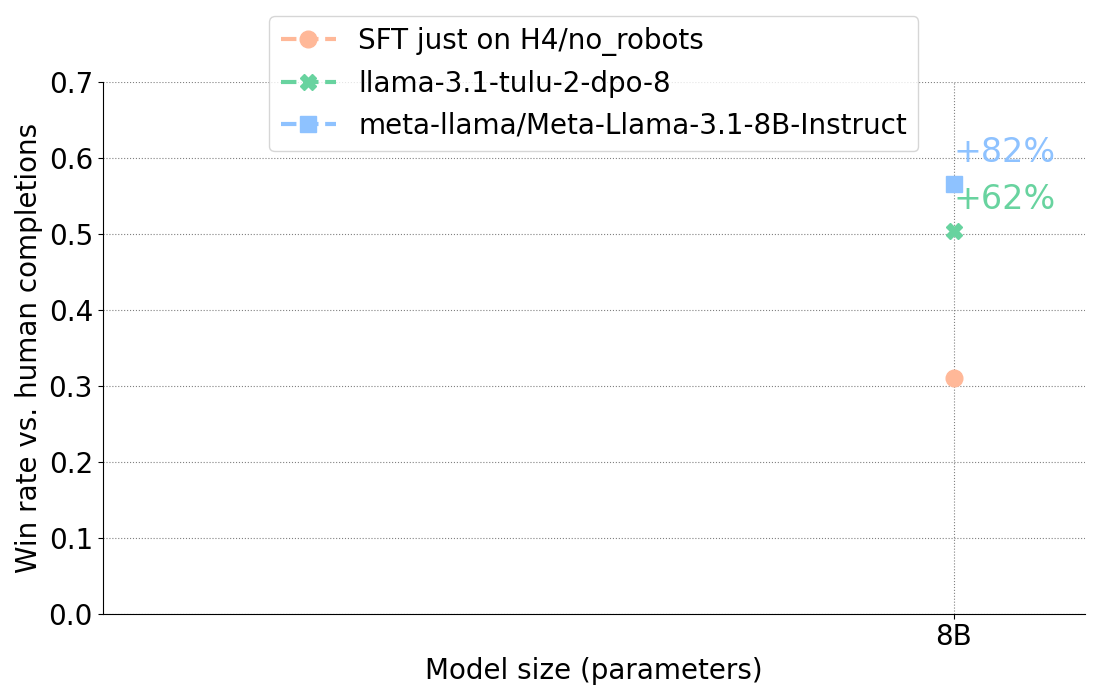
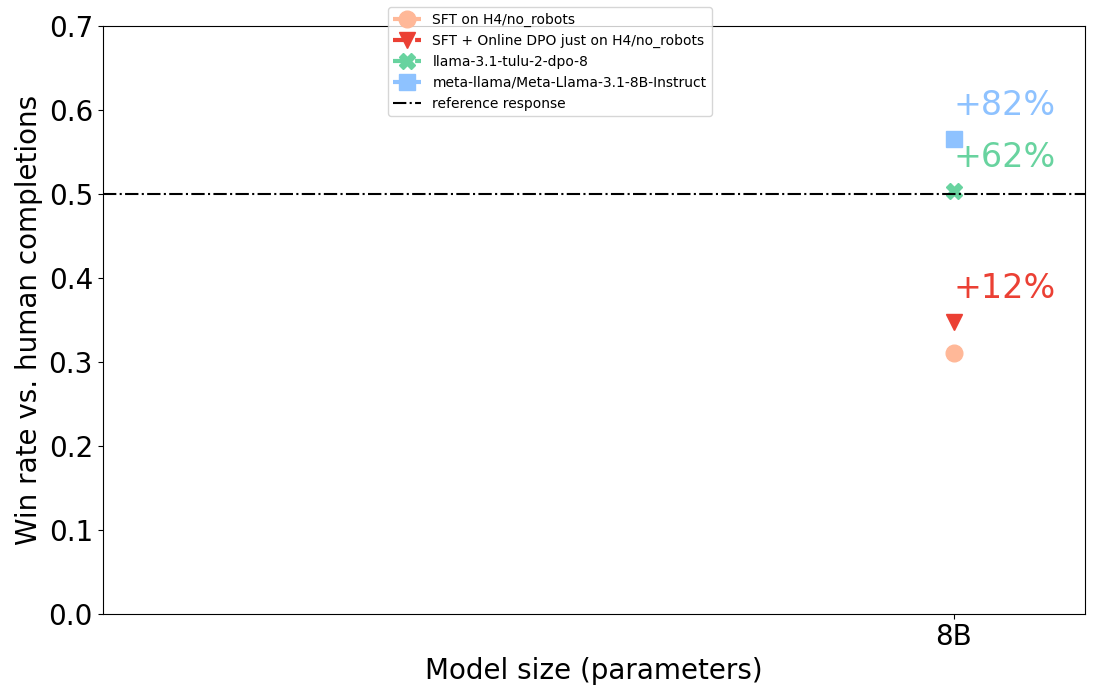
push change

diff --git a/scripts/experimental/winrate/plot_winrate.py b/scripts/experimental/winrate/plot_winrate.py
@@ -1,76 +1,108 @@
 # Re-import necessary modules and define the previous variables
 
+from dataclasses import dataclass
+from typing import Dict, List
 import matplotlib.pyplot as plt
 import numpy as np
 
+@dataclass
+class Data:
+    data: Dict[float, List[float]] # Dict of model sizes to [winrate, response len]
+    color: str
+    marker: str
+
+
 # Data
 results = {
-    "SFT just on H4/no_robots": {8e9: 0.31},
-    "llama-3.1-tulu-2-dpo-8": {8e9: 0.504},
-    "meta-llama/Meta-Llama-3.1-8B-Instruct": {8e9: 0.566},
+    "SFT on H4/no_robots": Data({8e9: [0.31, 121.41]}, "#FFB898", "o"),
+    "SFT + Online DPO just on H4/no_robots": Data({8e9: [0.348, 123.408]}, "#eb4034", "v"),
+    "llama-3.1-tulu-2-dpo-8": Data({8e9: [0.504, 172.248]}, "#68D39F", "X"),
+    "meta-llama/Meta-Llama-3.1-8B-Instruct": Data({8e9: [0.566, 151.506]}, "#8EC2FF", "s"),
 }
+
 first_key = list(results.keys())[0]
 
-# Plotting variables
-colors = {
-    "SFT just on H4/no_robots": "#FFB898", # light orange
-    "llama-3.1-tulu-2-dpo-8": "#68D39F", # light green
-    "meta-llama/Meta-Llama-3.1-8B-Instruct": "#8EC2FF", # light blue
-}
-markers = {
-    "SFT just on H4/no_robots": "o",         # Circle
-    "llama-3.1-tulu-2-dpo-8": "X",  # Stars
-    "meta-llama/Meta-Llama-3.1-8B-Instruct": "s", # Square
-}
+# Function to create and save the original plot
+def create_original_plot(filename):
+    fig, ax = plt.subplots(figsize=(11, 7))
 
-# Map to new legend labels
-legend_labels = {
-    "meta-llama/Meta-Llama-3.1-8B-Instruct": "meta-llama/Meta-Llama-3.1-8B-Instruct",
-    "llama-3.1-tulu-2-dpo-8": "llama-3.1-tulu-2-dpo-8",
-    "SFT just on H4/no_robots": "SFT just on H4/no_robots"
-}
+    # Plot each method
+    for method, item in results.items():
+        sizes = list(item.data.keys())
+        values = [value[0] for value in item.data.values()]
+        ax.plot(sizes, values, label=method, color=item.color, marker=item.marker, markersize=12, linestyle='--' if method != 'Online DPO' else '-', linewidth=3)
 
-# Double the size of the percentage annotations
-fig, ax = plt.subplots(figsize=(11, 7))
+    # Add percentage improvements relative to SFT for each parameter scale
+    sft_values = np.array([value[0] for value in results[first_key].data.values()])
+    for method, item in results.items():
+        if method != first_key:
+            sizes = list(item.data.keys())
+            values = [value[0] for value in item.data.values()]
+            relative_gains = (values - sft_values) / sft_values * 100
+            for i, size in enumerate(sizes):
+                ax.text(size, values[i] + 0.02, f"+{int(relative_gains[i])}%", fontsize=24, color=item.color, va='bottom')
 
-# Plot each method
-for method, data in results.items():
-    sizes = list(data.keys())
-    values = list(data.values())
-    ax.plot(sizes, values, label=legend_labels[method], color=colors[method], marker=markers[method], markersize=12, linestyle='--' if method != 'Online DPO' else '-', linewidth=3)
+    # Style the plot
+    ax.set_xscale("log")
+    ax.set_xticks([8e9])
+    plt.axhline(y=0.5, color='black', linestyle='-.', label='reference response')
+    ax.set_xticklabels(["8B"], fontsize=20)
+    ax.set_xlabel("Model size (parameters)", fontsize=20)
+    ax.tick_params(axis='y', labelsize=20)
+    ax.set_ylabel("Win rate vs. human completions", fontsize=20)
+    ax.set_ylim(0, 0.7)
 
-# Add percentage improvements relative to SFT for each parameter scale, adjusted just above the line with doubled font size
-sft_values = np.array(list(results[first_key].values()))
-for method, data in results.items():
-    if method != first_key:
-        sizes = list(data.keys())
-        values = np.array(list(data.values()))
-        relative_gains = (values - sft_values) / sft_values * 100
-        for i, size in enumerate(sizes):
-            ax.text(size, values[i] + 0.02, f"+{int(relative_gains[i])}%", fontsize=24, color=colors[method], va='bottom')
+    # Ensure only the specified ticks are shown
+    ax.get_xaxis().set_major_locator(plt.FixedLocator([8e9]))
 
-# Style similar to the provided plot
-ax.set_xscale("log")
-ax.set_xticks([8e9])
-ax.set_xticklabels(["8B"], fontsize=20)
-ax.set_xlabel("Model size (parameters)", fontsize=20)
-ax.tick_params(axis='y', labelsize=20)
-ax.set_ylabel("Win rate vs. human completions", fontsize=20)
-ax.set_ylim(0, 0.7)
+    # Remove minor ticks
+    ax.minorticks_off()
 
-# Ensure only the 3 specified ticks are shown, removing any other automatic ticks
-ax.get_xaxis().set_major_locator(plt.FixedLocator([8e9]))
+    # Adjust legend
+    # ax.legend(title="", loc='upper center', bbox_to_anchor=(0.5, 1.15), ncol=1, fontsize=20)
+    fig.legend(loc="upper center", ncol=1, bbox_transform=fig.transFigure, fontsize=10)
 
-# Remove minor ticks if any
-ax.minorticks_off()
+    # Grid and spines
+    # ax.grid(True, linestyle=':', color='grey')
 
-# Adjust legend position and labels
-ax.legend(title="", loc='upper center', bbox_to_anchor=(0.5, 1.15), ncol=1, fontsize=20)
+    fig.tight_layout()
+    plt.savefig(filename)
+    plt.close()
 
-# Grid and spines similar to the original plot
-ax.grid(True, linestyle=':', color='grey')
-ax.spines['top'].set_visible(False)
-ax.spines['right'].set_visible(False)
+# Function to create and save the new plot (winrate vs model length)
+def create_winrate_vs_length_plot(filename):
+    fig, ax = plt.subplots(figsize=(11, 7))
 
-plt.tight_layout()
-plt.savefig("winrate_plot.png")
+    # Extract data for the plot
+    for method, item in results.items():
+        for size, values in item.data.items():
+            winrate, length = values
+            ax.scatter(length, winrate, label=method, color=item.color, marker=item.marker, s=150)
+
+    # Style the plot
+    ax.set_xlabel("Model response length", fontsize=20)
+    plt.axhline(y=0.5, color='black', linestyle='-.', label='reference response')
+    plt.axvline(x=179.726, color='black', linestyle='-.', label='reference response len')
+    ax.set_ylabel("Win rate vs. human completions", fontsize=20)
+    ax.tick_params(axis='both', which='major', labelsize=20)
+
+    # Set reasonable axis limits
+    ax.set_xlim(100, 200)
+    ax.set_ylim(0.2, 0.7)
+
+    # Adjust legend
+    # ax.legend(title="", loc='upper center', bbox_to_anchor=(0.5, 1.15), ncol=1, fontsize=20)
+    fig.legend(loc="upper center", ncol=1, bbox_transform=fig.transFigure, fontsize=10)
+
+    # Grid and spines
+    # ax.grid(True, linestyle=':', color='grey')
+
+    fig.tight_layout()
+    plt.savefig(filename)
+    plt.close()
+
+# Create the original plot (win rate vs model size)
+create_original_plot("winrate_plot.png")
+
+# Create the new plot (win rate vs model length)
+create_winrate_vs_length_plot("winrate_vs_length_plot.png")

diff --git a/scripts/experimental/winrate/generate_and_eval.py b/scripts/experimental/winrate/generate_and_eval.py
@@ -3,6 +3,7 @@ import subprocess
 import sys
 from collections import defaultdict
 from dataclasses import dataclass
+from typing import Optional
 
 import pandas as pd
 from datasets import load_dataset
@@ -23,7 +24,7 @@ python -i winrate/generate_and_eval.py \
 class Args:
     output_path: str
     model_name_or_path: str
-    model_revision: str = "main"
+    model_revision: Optional[str] = "main"
     judge_model: str = "gpt-4o-2024-08-06"
     n: int = 1000
 
@@ -60,6 +61,8 @@ llm = LLM(
     revision=args.model_revision,
     tokenizer_revision=args.model_revision,
     tensor_parallel_size=1,
+    max_model_len=4096,
+    disable_async_output_proc=True,
 )
 outputs = llm.generate(prompts, sampling_params)
 table = defaultdict(list)
@@ -77,6 +80,7 @@ for output, reference_response in zip(outputs, reference_summaries):
     )  # prepend leading space
 
 df = pd.DataFrame(table)
+breakpoint()
 df.to_csv(args.output_path)
 
 #####
@@ -91,6 +95,7 @@ judged_df = llm_judge(
     ),
     df,
 )
+print(f"{df['model_response_len'].mean()=}")
 print(judged_df["preferred"].value_counts())
 # print percentage
 print(judged_df["preferred"].value_counts(normalize=True))

diff --git a/scripts/experimental/winrate/gpt_eval_judge.py b/scripts/experimental/winrate/gpt_eval_judge.py
@@ -102,11 +102,12 @@ def llm_judge(ljc: LLMJudgeConfig, df: pd.DataFrame):
                             {"role": "system", "content": "You are a helpful assistant."},
                             {"role": "user", "content": text},
                         ],
+                        timeout=30,
                     )
                     r = response.choices[0].message.content
                 except Exception as e:
                     print(f"error in {i}: {e}")
-                    time.sleep(30)  # deal with rate limit
+                    time.sleep(5)  # deal with rate limit
                     continue
 
             try:

diff --git a/scripts/experimental/winrate/readme.md b/scripts/experimental/winrate/readme.md
@@ -18,6 +18,8 @@ python -i generate_and_eval.py \
 # response1    0.69
 # response0    0.31
 # Name: proportion, dtype: float64
+# df['model_response_len'].mean()=121.41
+# df['reference_response_len'].mean()=179.726
 
 python -i generate_and_eval.py \
     --model_name_or_path allenai/llama-3.1-tulu-2-dpo-8b \
@@ -28,6 +30,8 @@ python -i generate_and_eval.py \
 # response0    0.504
 # response1    0.496
 # Name: proportion, dtype: float64
+# df['model_response_len'].mean()=172.248
+# df['reference_response_len'].mean()=179.726
 
 python -i generate_and_eval.py \
     --model_name_or_path meta-llama/Meta-Llama-3.1-8B-Instruct \
@@ -38,7 +42,20 @@ python -i generate_and_eval.py \
 # response0    0.566
 # response1    0.434
 # Name: proportion, dtype: float64
+# df['model_response_len'].mean()=151.506
 
+
+python -i generate_and_eval.py \
+    --model_name_or_path vwxyzjn/online_dpo_vllm_thread_beta_0.03__allenai_open_instruct_dev \
+    --model_revision online_dpo_vllm_thread_beta_0.03__3__1726066140 \
+    --output_path test.csv \
+    --n 500
+
+# preferred
+# response1    0.652
+# response0    0.348
+# Name: proportion, dtype: float64
+# df['model_response_len'].mean()=123.408
 
 python plot_winrate.py
 ```
